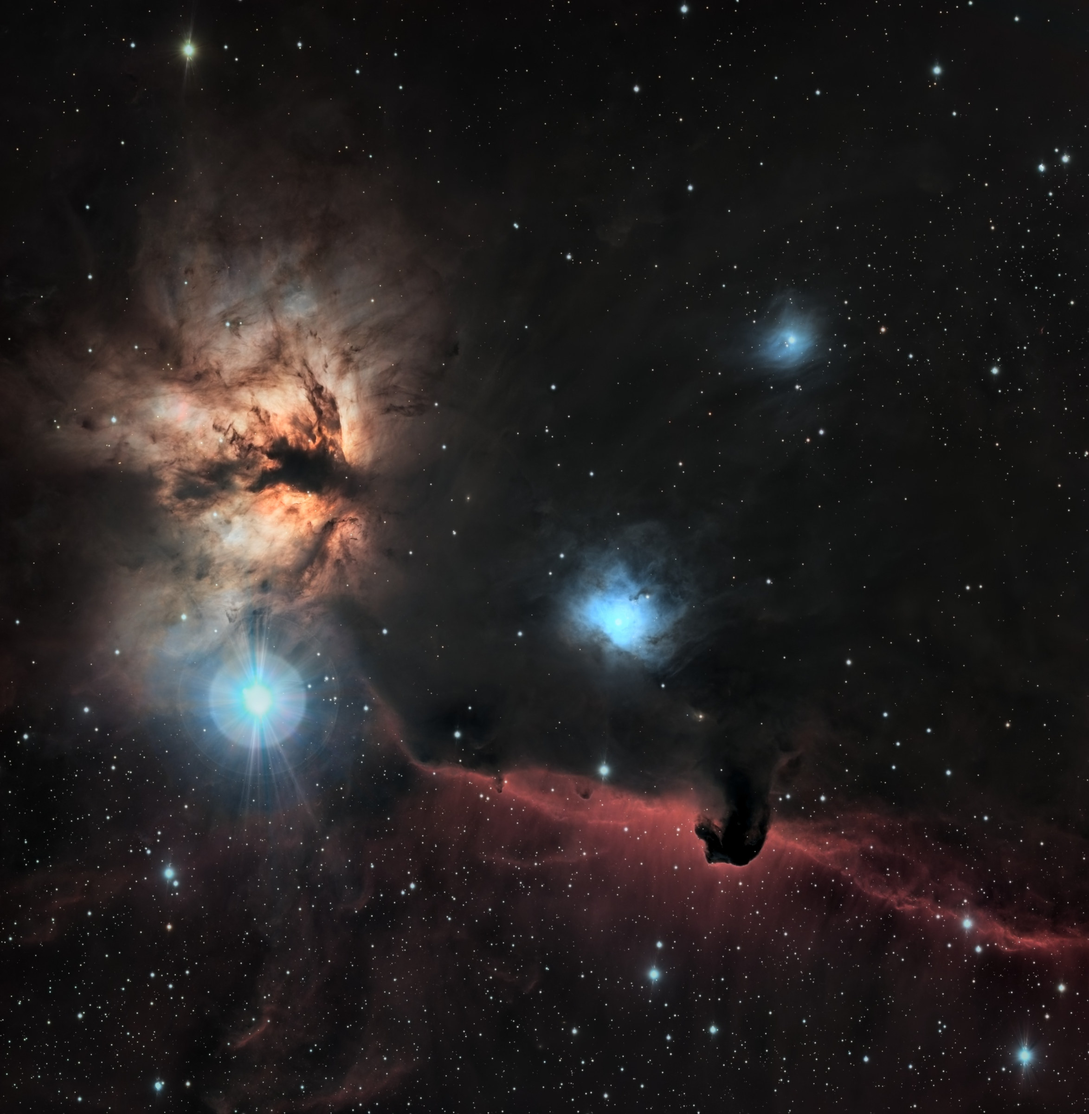
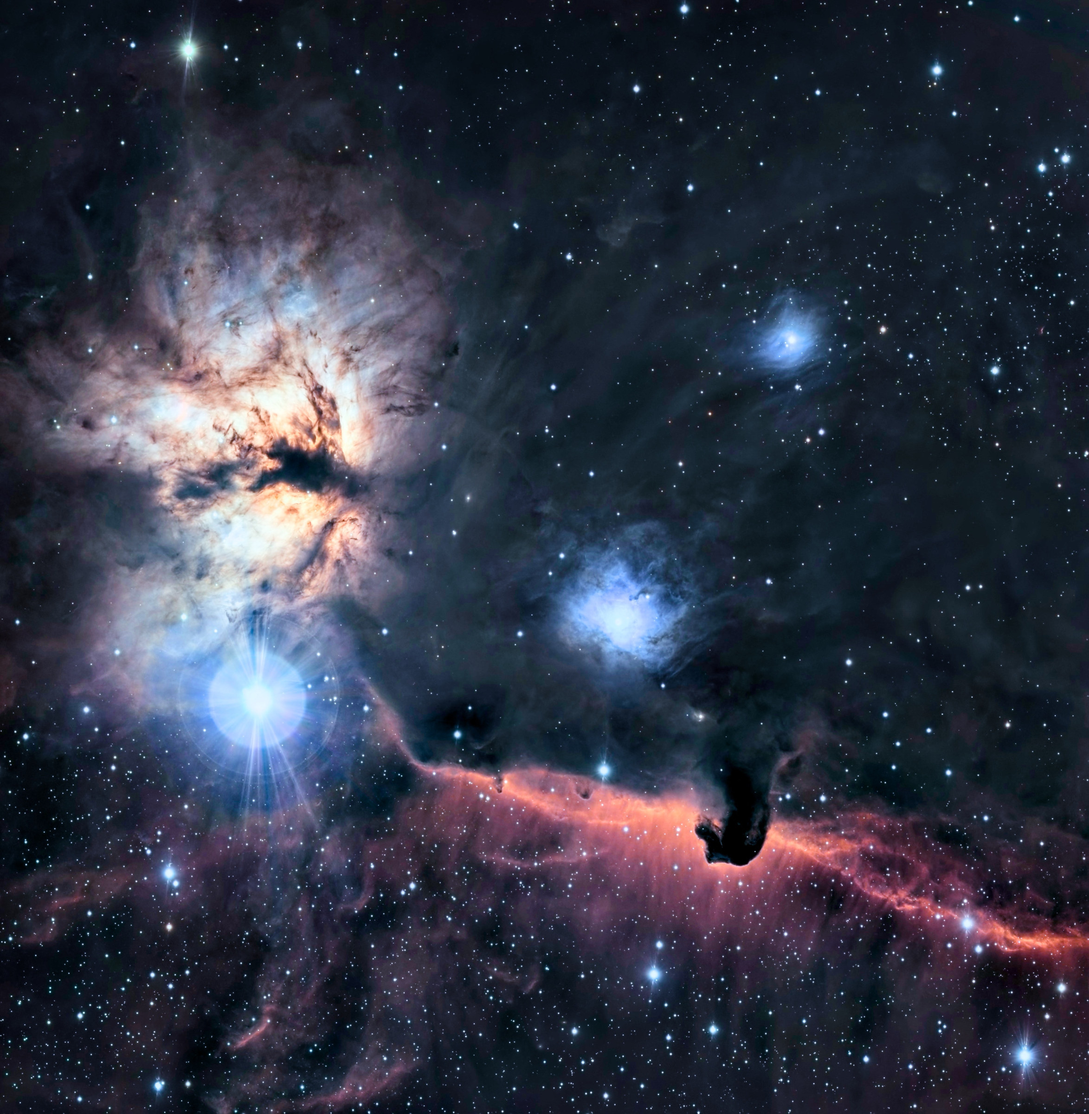
Flame + Horsehead: user's Pixelmator Pro finish

diff --git a/flame-horsehead/index.html b/flame-horsehead/index.html
@@ -7,7 +7,7 @@
 <meta name="description" content="The Flame Nebula (left), the Horsehead silhouetted against the red glow of IC 434, the blue reflection nebulae NGC 2023 and IC 435, and Alnitak, the eastern star of Orion&#x27;s Belt. Detail from two nights on the C14; colour from the RASA 8 in January 2024.">
 <meta property="og:title" content="Flame &amp; Horsehead Nebulae · Night Sky">
 <meta property="og:description" content="The Flame Nebula (left), the Horsehead silhouetted against the red glow of IC 434, the blue reflection nebulae NGC 2023 and IC 435, and Alnitak, the eastern star of Orion&#x27;s Belt. Detail from two nights on the C14; colour from the RASA 8 in January 2024.">
-<meta property="og:image" content="https://etotman.github.io/astro-gallery/img/flame-horsehead/display.jpg?v=f95a2149"><meta name="twitter:card" content="summary_large_image">
+<meta property="og:image" content="https://etotman.github.io/astro-gallery/img/flame-horsehead/display.jpg?v=ecdb6d69"><meta name="twitter:card" content="summary_large_image">
 <meta name="theme-color" content="#07080b">
 <link rel="icon" href="../assets/icon.svg" type="image/svg+xml">
 <link rel="stylesheet" href="../assets/style.css?v=bd09f262">
@@ -18,8 +18,8 @@
 <div class="layout">
 <div class="col">
 <figure class="hero">
-  <button class="zoom" type="button" data-full="../img/flame-horsehead/full.jpg?v=a40e095d" data-w="3872" data-h="3960" aria-label="Open full resolution">
-    <img src="../img/flame-horsehead/display.jpg?v=f95a2149" width="2347" height="2400" alt="Flame &amp; Horsehead Nebulae">
+  <button class="zoom" type="button" data-full="../img/flame-horsehead/full.jpg?v=87133b20" data-w="3872" data-h="3960" aria-label="Open full resolution">
+    <img src="../img/flame-horsehead/display.jpg?v=ecdb6d69" width="2347" height="2400" alt="Flame &amp; Horsehead Nebulae">
   </button>
   <figcaption>Click the image for full resolution · 3872 × 3960 px</figcaption>
 </figure>
@@ -46,8 +46,8 @@
 </tr></tbody>
   </table></div>
 </section>
-  <section class="block"><h2>Processing</h2><p>LRGB: C14 HyperStar luminance (WBPP, 386 subs, BlurXTerminator, NoiseXTerminator) + RASA 8 colour mapped onto the luminance grid through both plate solutions; GraXpert background extraction on both; LRGBCombination; StarXTerminator; starless layer pushed with saturation and local contrast; stars screened back.</p></section>
-  <p class="dl"><a href="../img/flame-horsehead/full.jpg?v=a40e095d" download="flame-horsehead.jpg">Download full resolution (1.3 MB)</a></p>
+  <section class="block"><h2>Processing</h2><p>LRGB: C14 HyperStar luminance (WBPP, 386 subs, BlurXTerminator, NoiseXTerminator) + RASA 8 colour mapped onto the luminance grid through both plate solutions; GraXpert background extraction on both; LRGBCombination; StarXTerminator; starless layer pushed with saturation and local contrast; stars screened back. Final colour by hand in Pixelmator Pro: Cinematic adjustments and ML Enhance, a cooler white balance, lifted shadows, more clarity and saturation.</p></section>
+  <p class="dl"><a href="../img/flame-horsehead/full.jpg?v=87133b20" download="flame-horsehead.jpg">Download full resolution (2.2 MB)</a></p>
 </main>
 </div>
 <aside class="glance">

diff --git a/index.html b/index.html
@@ -28,7 +28,7 @@
   <span class="cap"><strong>NGC 2403 · Caldwell 7</strong><em>3.5 h · C14HS</em></span>
 </a>
 <a class="tile" href="flame-horsehead/" style="--r:0.9778;background:#1c1c1c">
-  <img src="img/flame-horsehead/thumb.jpg?v=ecb2d958" width="880" height="900" alt="Flame &amp; Horsehead Nebulae" loading="lazy" decoding="async">
+  <img src="img/flame-horsehead/thumb.jpg?v=c9ca0207" width="880" height="900" alt="Flame &amp; Horsehead Nebulae" loading="lazy" decoding="async">
   <span class="cap"><strong>Flame &amp; Horsehead Nebulae</strong><em>15.1 h · C14HS + RASA8</em></span>
 </a>
 <a class="tile" href="ngc1333/" style="--r:1.4241;background:#1c1c1c">
